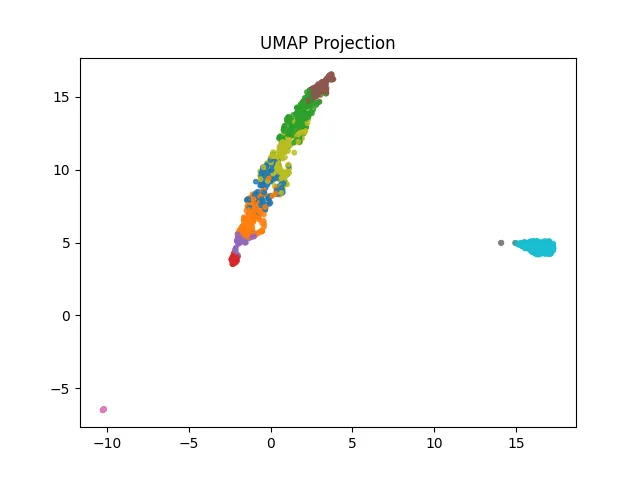
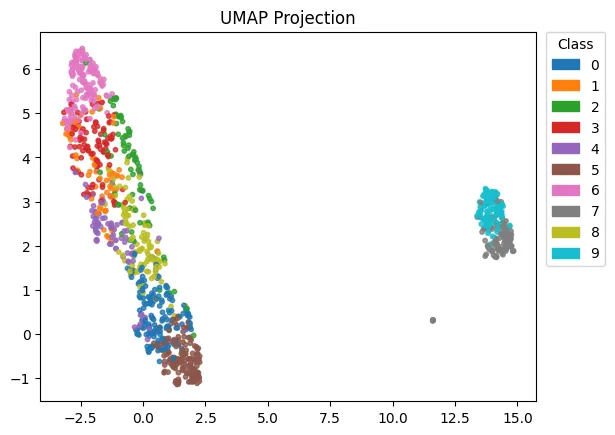
Add legend for scatter plots

diff --git a/src/prismpyp/commands/eval2d.py b/src/prismpyp/commands/eval2d.py
@@ -251,23 +251,63 @@ def main_worker(gpu, ngpus_per_node, args):
         
         return
         
+import matplotlib.pyplot as plt
+import numpy as np
+import os
+import matplotlib.patches as mpatches
+from matplotlib.colors import ListedColormap
+
 def plot_projections(projection, actual_assignments, title, path_to_save, cmap, args, ngpus_per_node, num_neighbors=None, min_dist_umap=None):
-    plt.scatter(projection[:, 0], projection[:, 1], c=actual_assignments, cmap=cmap, s=10, alpha=0.8)
+    # Discretize colors to match classes
+    labels = np.asarray(actual_assignments)
+    unique_labels = np.unique(labels)
+    K = len(unique_labels)
+
+    # build a discrete colormap with K colors sampled from the provided cmap
+    discrete_colors = cmap(np.linspace(0, 1, K))
+    discrete_cmap = ListedColormap(discrete_colors)
+
+    # map each label to an index [0..K-1]
+    label_to_idx = {lab: i for i, lab in enumerate(unique_labels)}
+    color_indices = np.vectorize(label_to_idx.get)(labels)
+
+    # scatter using discrete indices so legend colors match exactly
+    scatter = plt.scatter(
+        projection[:, 0], projection[:, 1],
+        c=color_indices, cmap=discrete_cmap, s=10, alpha=0.8
+    )
+
+    # Legend: one patch per class using the same discrete colors
+    handles = [
+        mpatches.Patch(color=discrete_cmap(i), label=str(lab))
+        for i, lab in enumerate(unique_labels)
+    ]
+    leg = plt.legend(
+        handles=handles, title="Class",
+        loc='upper left', bbox_to_anchor=(1.02, 1), borderaxespad=0.
+    )
+
     plt.title(title)
-    plt.gca().legend()
+
+    # keep your args-derived params (even if unused here)
     num_neighbors = args.num_neighbors if num_neighbors is None else num_neighbors
     min_dist_umap = args.min_dist_umap if min_dist_umap is None else min_dist_umap
-    title = title.split(" ")[0]
-    save_title = f"scatter_plot_{title}.webp"
-    
+
+    base_title = title.split(" ")[0]
+    save_title = f"scatter_plot_{base_title}.webp"
+
     if not args.distributed or args.rank % ngpus_per_node == 0:
-        plt.savefig(os.path.join(path_to_save, save_title))
-        
-        plt.gca().set_title("")  # Remove title
-        plt.axis('off')  # Turn off axes
-        plt.gca().legend().remove()  # Remove legend
-        new_save_title = f"scatter_plot_{title}_no_labels.webp"
+        # labeled version
+        plt.savefig(os.path.join(path_to_save, save_title), bbox_inches='tight')
+
+        # no-label version (axes/title/legend removed)
+        plt.gca().set_title("")
+        plt.axis('off')
+        if leg is not None:
+            leg.remove()
+        new_save_title = f"scatter_plot_{base_title}_no_labels.webp"
         plt.savefig(os.path.join(path_to_save, new_save_title), bbox_inches='tight', pad_inches=0)
+
     plt.clf()
     
 
